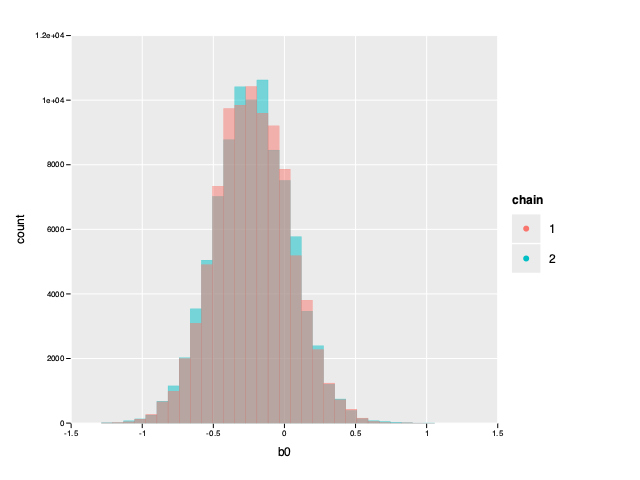
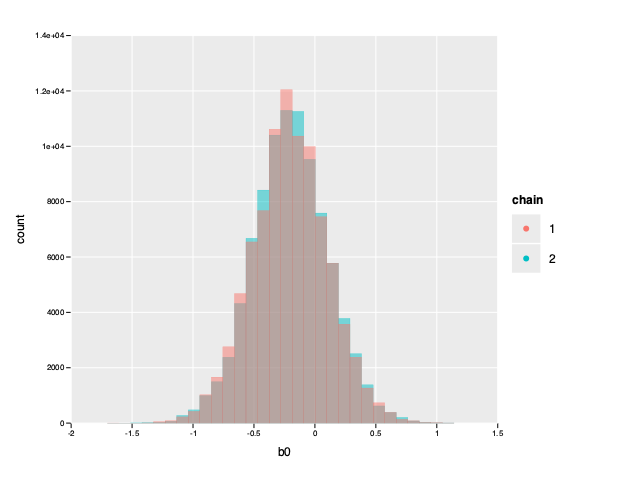
Build after last changes

diff --git a/index.html b/index.html
@@ -55,21 +55,21 @@ and online.</p>
 <p>Where each of these terms are referred to as:</p>
 <p>$$ \text{Posterior} = \frac{\text{Likelihood} \cdot \text{Prior}}{\text{Marginal Likelihood}}$$</p>
 <p>In this tutorial we will condsider a simple linear model
-$ y_{i} = \beta_{0} + \beta_{1} x_{i} + \epsilon_{i} $ where the parameters
-$\beta_0$ (y intercept), $\beta_1$ (slope), and $\epsilon$ (random error)
-describe the relationship between a predictor variable $x$ and a response
-variable $y$, with some unaccounted for residual ranodom error that
-is normally distributed.</p>
+$ y_{i} = \beta_{0} + \beta_{1} x_{i} + \epsilon_{i} $ where $\epsilon \sim N(0, \tau)$.
+Under this model, the parameters $\beta_0$ (y intercept), $\beta_1$ (slope),
+and $\epsilon$ (residual random error) describe the relationship between a
+predictor variable $x$ and a response variable $y$, with some unaccounted for
+residual random error that is normally distributed with a mean of $0$ and
+standard deviation $\tau$.</p>
 <p>We well estimate the values of the slope ($\beta_{0}$), the y-intercept
-($\beta_{1}$), and the standard deviation of the normally distributed random
-error which we will call $\tau$.</p>
-<p>We can express this using Bayes rule:</p>
+($\beta_{1}$), and the standard deviation of the residual random error ($\tau$).</p>
+<p>Expressing this with Bayes rule give us:</p>
 <p>$$ \displaystyle P(\beta_{0}, \beta_{1}, \tau | Data) =
 \frac{P(Data|\beta_{0}, \beta_{1}, \tau) P(\beta_{0}, \beta_{1}, \tau)}
 {\iiint d\beta_{0} d\beta_{1} d\tau P(Data|\beta_{0}, \beta_{1}, \tau) P(\beta_{0}, \beta_{1}, \tau)} $$</p>
 <h1>Generate Data</h1>
 <p>We need some data to work with. Let's simulate data<br />
-under the model: $y = 0 + 1x + \epsilon$ where $\epsilon \sim N(0, 1)$ with
+under the model: $y = 0 + 1x + \epsilon$ where $\epsilon \sim N(0, \tau)$ with
 $\beta_{0}=0$ $\beta_{1}=1$ and $\tau=1$</p>
 <pre><code class="nim hljs"><span class="hljs-keyword">import</span>
   std / sequtils, std / random
@@ -323,9 +323,9 @@ the mean. Let's see how close these values are to the true values of the paramet
 <span class="hljs-keyword">echo</span> meanB0
 <span class="hljs-keyword">echo</span> meanB1
 <span class="hljs-keyword">echo</span> meanSd</code></pre>
-<pre><samp>-0.1908241656792634
-1.002581119608087
-0.999646398364294
+<pre><samp>-0.1896050704901563
+1.001142183468065
+1.021478576011831
 </samp></pre>
 <h1>Credible Intervals</h1>
 <p>We The means give us a point estimate for our parameter values but they tell us
@@ -367,9 +367,9 @@ Credible interval threshold values are completely arbitrary.</p>
 <span class="hljs-keyword">echo</span> b0EtiMin, <span class="hljs-string">&quot; &quot;</span>, b0EtiMax
 <span class="hljs-keyword">echo</span> b1EtiMin, <span class="hljs-string">&quot; &quot;</span>, b1EtiMax
 <span class="hljs-keyword">echo</span> sdEtiMin, <span class="hljs-string">&quot; &quot;</span>, sdEtiMax</code></pre>
-<pre><samp>-0.5360836531123057 0.1650582754538911
-0.9969445041487184 1.008268819916758
-0.8939711438887052 1.113858601688389
+<pre><samp>-0.6307753350130431 0.2405507379499496
+0.9943855120740054 1.007570304993719
+0.9054390323627701 1.153351581217871
 </samp></pre>
 <h2>Highest Density Interval</h2>
 <pre><code class="nim hljs"><span class="hljs-keyword">proc</span> hdi(samples: <span class="hljs-built_in">seq</span>[<span class="hljs-built_in">float</span>]; credMass: <span class="hljs-built_in">float</span>): (<span class="hljs-built_in">float</span>, <span class="hljs-built_in">float</span>) =
@@ -393,9 +393,9 @@ Credible interval threshold values are completely arbitrary.</p>
 <span class="hljs-keyword">echo</span> b0HdiMin, <span class="hljs-string">&quot; &quot;</span>, b0HdiMax
 <span class="hljs-keyword">echo</span> b1HdiMin, <span class="hljs-string">&quot; &quot;</span>, b1HdiMax
 <span class="hljs-keyword">echo</span> sdHdiMin, <span class="hljs-string">&quot; &quot;</span>, sdHdiMax</code></pre>
-<pre><samp>-0.5228595263866326 0.1732315662528872
-0.9975307830804496 1.008650023990512
-0.8927504778460364 1.109800414119305
+<pre><samp>-0.5734889260357414 0.2777193813084474
+0.9938846202187694 1.006982497732871
+0.8954264741762239 1.137726709605412
 </samp></pre>
 <h1>Standardize Data</h1>
 <p>We might be able to get even better mixing by standardizing the data and
@@ -436,12 +436,12 @@ but let's see what happens if we leave them the same.</p>
 <span class="hljs-keyword">echo</span> mean(b0Samples2)
 <span class="hljs-keyword">echo</span> mean(b1Samples2)
 <span class="hljs-keyword">echo</span> mean(sdSamples2)</code></pre>
-<pre><samp>3.795946426557245e-05
-0.9994064132775144
-0.04275043711748474
--2.322934709008947e-05
-0.9994037881830803
-0.04280432472946218
+<pre><samp>-3.009034459580238e-05
+0.9992240596569951
+0.04831925496994427
+-4.533500297361768e-05
+0.9990553526596943
+0.0482398715278403
 </samp></pre>
 <h3>Convert back to original scale</h3>
 <p>To interpret these new estimates we can convert back to the original scale.
@@ -544,9 +544,9 @@ meanSd = mean(sdBurn)
 <span class="hljs-keyword">echo</span> meanB0
 <span class="hljs-keyword">echo</span> meanB1
 <span class="hljs-keyword">echo</span> meanSd</code></pre>
-<pre><samp>-0.2241705270876181
-1.003057570388122
-0.715325642079128
+<pre><samp>-0.2023695701968007
+1.001333366998545
+0.81801159699034
 </samp></pre>
 <h1>Equal Tailed Interval</h1>
 <pre><code class="nim hljs">(b0EtiMin, b0EtiMax) = eti(b0Burn, <span class="hljs-number">0.89</span>)
@@ -555,9 +555,9 @@ meanSd = mean(sdBurn)
 <span class="hljs-keyword">echo</span> b0EtiMin, <span class="hljs-string">&quot; &quot;</span>, b0EtiMax
 <span class="hljs-keyword">echo</span> b1EtiMin, <span class="hljs-string">&quot; &quot;</span>, b1EtiMax
 <span class="hljs-keyword">echo</span> sdEtiMin, <span class="hljs-string">&quot; &quot;</span>, sdEtiMax</code></pre>
-<pre><samp>-0.6435550499385485 0.198174948110136
-0.996245893288753 1.009863234834201
-0.3245825137704657 1.133751424496467
+<pre><samp>-0.693695074052286 0.2934419644980153
+0.9935717170889153 1.009000077356251
+0.3445385008873316 1.315096311924194
 </samp></pre>
 <h1>Highest Density Interval</h1>
 <pre><code class="nim hljs">(b0HdiMin, b0HdiMax) = hdi(b0Burn, <span class="hljs-number">0.89</span>)
@@ -566,9 +566,9 @@ meanSd = mean(sdBurn)
 <span class="hljs-keyword">echo</span> b0HdiMin, <span class="hljs-string">&quot; &quot;</span>, b0HdiMax
 <span class="hljs-keyword">echo</span> b1HdiMin, <span class="hljs-string">&quot; &quot;</span>, b1HdiMax
 <span class="hljs-keyword">echo</span> sdHdiMin, <span class="hljs-string">&quot; &quot;</span>, sdHdiMax</code></pre>
-<pre><samp>-0.6440198847379222 0.1969556880305063
-0.9964242414872764 1.009977118689592
-0.3088670682856645 1.113229217333945
+<pre><samp>-0.6764543420027849 0.3091544890406936
+0.9937352611257259 1.009117141256259
+0.348118078157114 1.316757664459629
 </samp></pre>
 <h1>Final Note</h1>
 <p>Of course we could have simply and more efficiently done this using least squares regression.
@@ -613,17 +613,17 @@ Where each of these terms are referred to as:
 $$ \text{Posterior} = \frac{\text{Likelihood} \cdot \text{Prior}}{\text{Marginal Likelihood}}$$
 
 In this tutorial we will condsider a simple linear model 
-$ y_{i} = \beta_{0} + \beta_{1} x_{i} + \epsilon_{i} $ where the parameters
-$\beta_0$ (y intercept), $\beta_1$ (slope), and $\epsilon$ (random error)
-describe the relationship between a predictor variable $x$ and a response
-variable $y$, with some unaccounted for residual ranodom error that 
-is normally distributed. 
+$ y_{i} = \beta_{0} + \beta_{1} x_{i} + \epsilon_{i} $ where $\epsilon \sim N(0, \tau)$.
+Under this model, the parameters $\beta_0$ (y intercept), $\beta_1$ (slope), 
+and $\epsilon$ (residual random error) describe the relationship between a 
+predictor variable $x$ and a response variable $y$, with some unaccounted for 
+residual random error that is normally distributed with a mean of $0$ and 
+standard deviation $\tau$.
 
 We well estimate the values of the slope ($\beta_{0}$), the y-intercept 
-($\beta_{1}$), and the standard deviation of the normally distributed random
-error which we will call $\tau$.
+($\beta_{1}$), and the standard deviation of the residual random error ($\tau$).
 
-We can express this using Bayes rule:
+Expressing this with Bayes rule give us:
 
 $$ \displaystyle P(\beta_{0}, \beta_{1}, \tau | Data) =
   \frac{P(Data|\beta_{0}, \beta_{1}, \tau) P(\beta_{0}, \beta_{1}, \tau)}
@@ -632,7 +632,7 @@ $$ \displaystyle P(\beta_{0}, \beta_{1}, \tau | Data) =
 
 # Generate Data
 We need some data to work with. Let's simulate data  
-under the model: $y = 0 + 1x + \epsilon$ where $\epsilon \sim N(0, 1)$ with 
+under the model: $y = 0 + 1x + \epsilon$ where $\epsilon \sim N(0, \tau)$ with 
 $\beta_{0}=0$ $\beta_{1}=1$ and $\tau=1$
 &quot;&quot;&quot;</span>
 nbCode:
